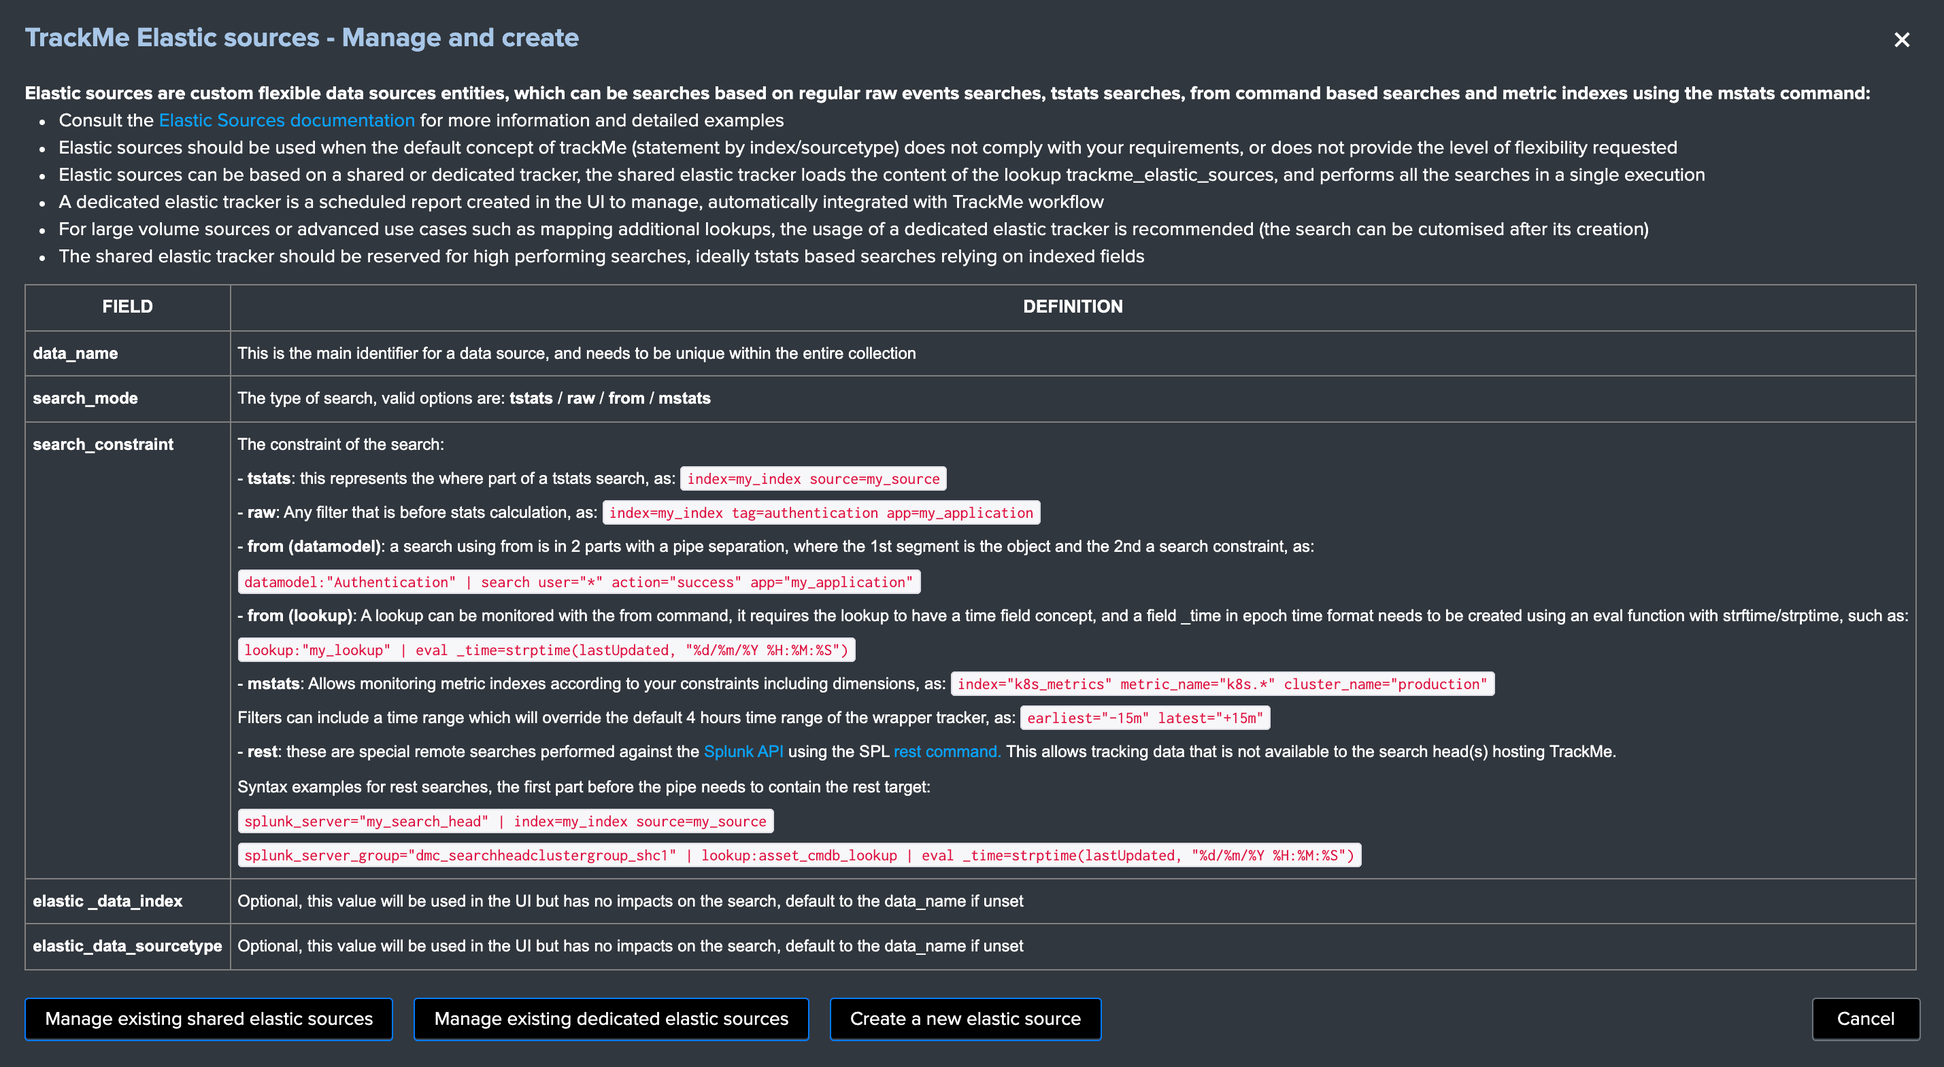
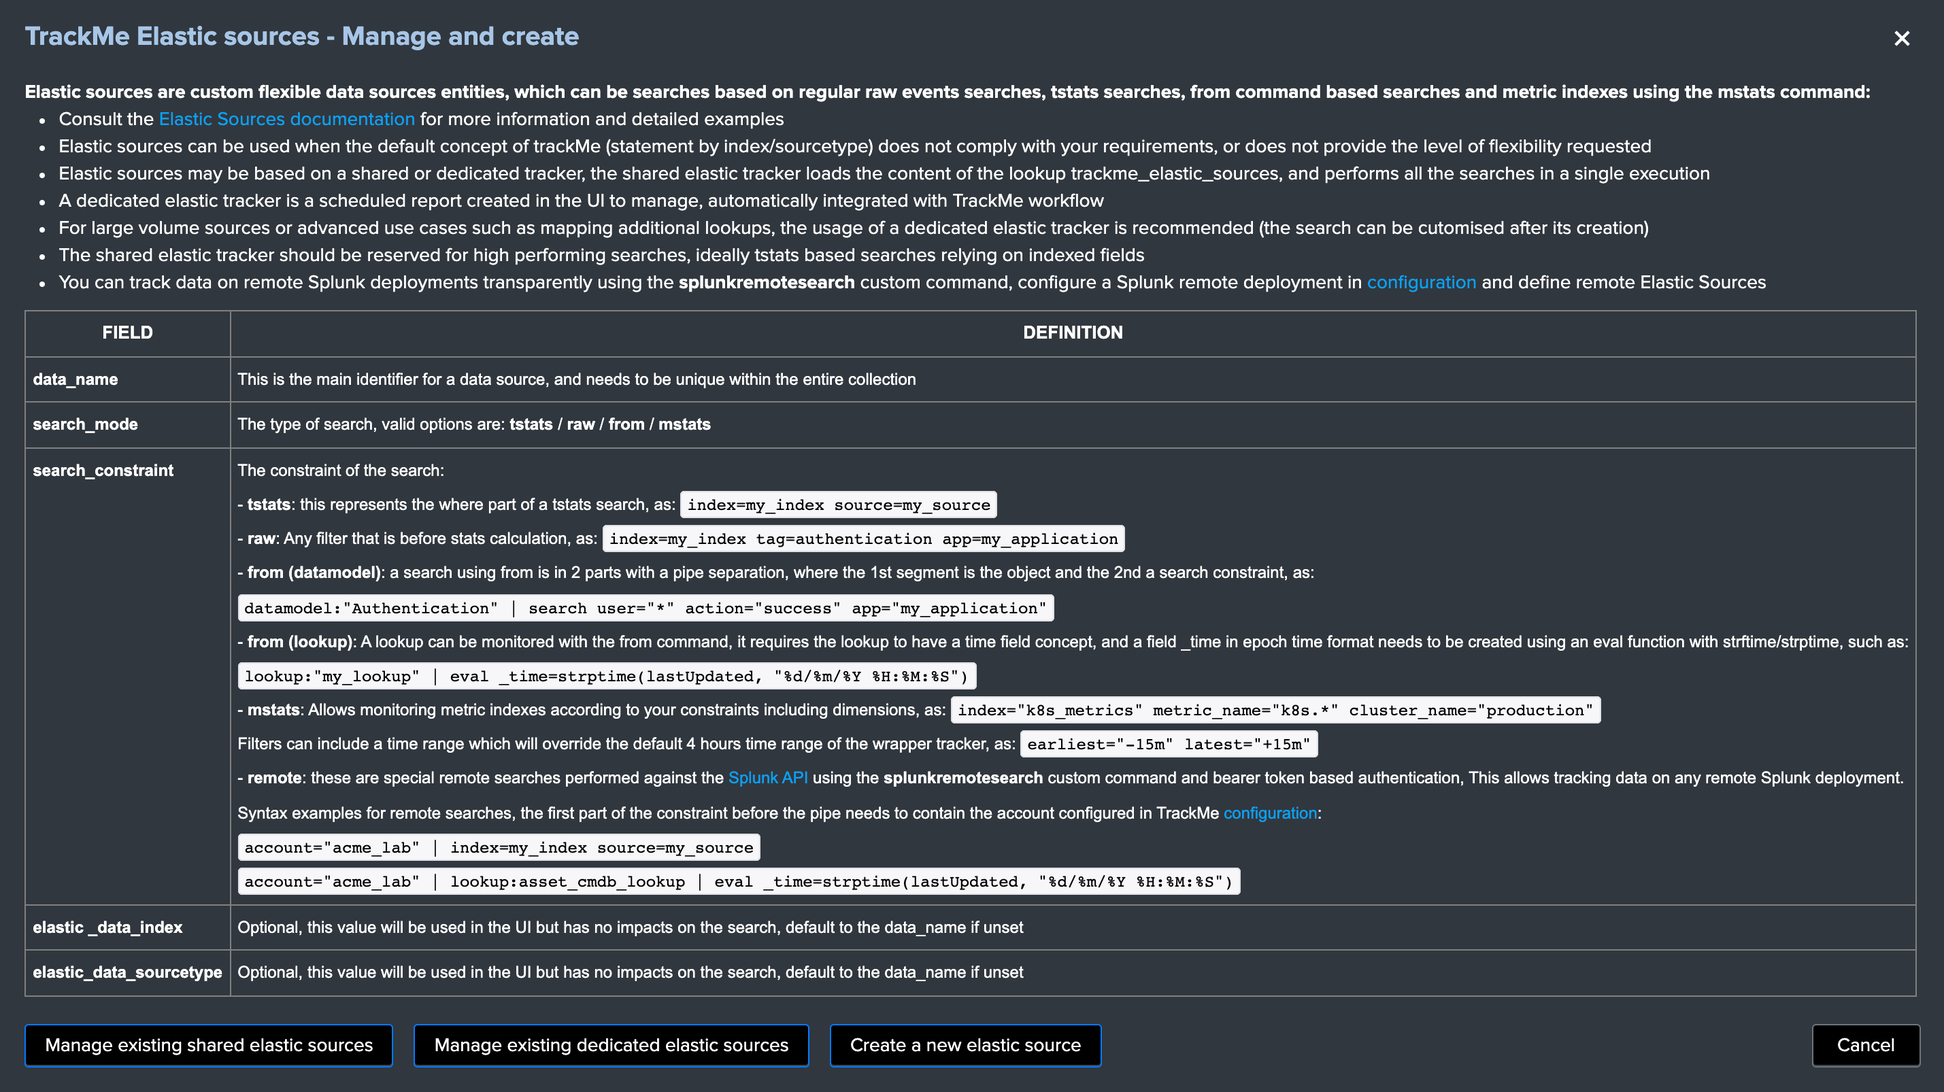
Docs in progress

Changed region(s): [[0.0, 0.3121, 0.9965, 0.9987], [0.0, 0.0312, 0.9654, 0.4369], [0.9342, 0.9051, 0.9965, 0.9987]]

diff --git a/docs/userguide.rst b/docs/userguide.rst
@@ -561,12 +561,12 @@ Introduction to Hybrid Trackers
 
 .. admonition:: What are hybrid trackers for?
 
-   - The purpose of Hybrid trackers is to to address two essential needs, **custom key special entities split**, and **remote Splunk deployment monitoring**
+   - The purpose of Hybrid trackers is to address two essential needs, **custom key special entities split**, and **remote Splunk deployment monitoring**
    - **custom key special entities** is to be used when you have special requirements in addition with the default index/sourcetype data source concept, then you can rely on any additional key field (indexed or search time extracted) and create hybrid trackers without affecting the general data sources behaviour
    - For instance, you could create an hybrid tracker to automatically create entities for your Cloud provider data using a **subscription_id** field, and get a single entity per index / sourcetype / Cloud tenant (represented by its subscription_id)
    - Another example, you could create an hybrid tracker to create entities based on a **company** fields which describes subsidiaries in your data sets, generating entities per index / sourcetype / company
    - Finally, **remote Splunk deployment monitoring** is a magic feature of TrackMe which allows to do all of these, index/sourcetype entities or with a custom key, but with any remote Splunk deployment configured as an account and using a bearer token for the authentication
-   - In short, you can transparently and easily monitor data from remote Splunk deployment, just as if these were local data sets, with all trackMe features and massive scalability and efficiently!
+   - In short, you can transparently and easily monitor data from remote Splunk deployments, just as if these were local data sets, with all trackMe features and massive scalability and efficiently!
 
 Hybrid trackers for local data sets with a custom key
 -----------------------------------------------------
@@ -806,7 +806,7 @@ Introduction to Elastic sources
    - The Elastic sources feature provides a builtin workflow to create virtual data sources based on any constraints and any Splunk language
    - This extends TrackMe builtin features to allow dealing with any use case that the default data source concept does not cover by design
    - Elastic Sources can be based on ``tstats``, ``raw``, ``from (datamodel and lookup)`` and ``mstats`` searches
-   - In addition, Elastic Sources can be executed over a ``rest`` remote query which allows tracking data that the search head(s) hosting TrackMe cannot access otherwise (such as a lookup that is only available to a Search Head Cluster while you run TrackMe on a monitoring utility search head)
+   - In addition, Elastic Sources can be executed over a remote Splunk deployment using the ``splunkremotesearch`` command which allows tracking data that the search head(s) hosting TrackMe cannot access otherwise (such as a lookup that is only available to a Search Head Cluster while you run TrackMe on a monitoring utility search head)
 
 As we have exposed the main notions of TrackMe data discovery and tracking in :ref:`Main navigation tabs`, there can be various use cases that these concepts do not address properly, considering some facts:
 
@@ -818,7 +818,11 @@ As we have exposed the main notions of TrackMe data discovery and tracking in :r
 
 .. hint:: 
 
-   The Elastic source feature allows you to fulfil any type of requirements from the data identification and search perspective, and transparenly integrate these virtual entities in the normal TrackMe workflow with the exact same features.
+   - The Elastic source feature allows you to fulfil any type of requirements from the data identification and search perspective, and transparenly integrate these virtual entities in the normal TrackMe workflow with the exact same features.
+   - Since TrackMe 2.0, you can as well create **hybrid trackers** for the nearly same purposes with advantages over Elastic Sources (hybrid trackers can only address tstats and raw searches)
+   - Unlike Elastic Sources, Hybrid trackers allow you to perform the discovery of many entities based on a given logic but from a single operation and automatically, saving computes and operations
+   - If you have many entities to be handled, such as a logic based on a subscription_id for a Cloud provider, use hybrid trackers rather than Elastic Sources
+   - Consult :ref:`Hybrid trackers` for more information about hybrid trackers
 
 **The concept of "Elastic Sources" is proper to TrackMe, and is linked to the complete level of flexibility the feature provides you to address any kind of use cases you might need to deal with.**
 
@@ -853,6 +857,11 @@ The following screen appears:
 
 Elastic source example 1: source Metadata
 -----------------------------------------
+
+.. hint::
+
+   - Since TrackMe 2.0, this use case example is much better covered by hybrid trackers, and left for the purposes of the documentation
+   - Consult :ref:`Hybrid trackers` for more information about hybrid trackers
 
 **Let's take our first example, assuming we are indexing the following events:**
 
@@ -895,6 +904,11 @@ Elastic Sources is the TrackMe answer which allows you to extend the default fea
 Elastic source example 2: custom indexed fields
 -----------------------------------------------
 
+.. hint::
+
+   - Since TrackMe 2.0, this use case example is much better covered by hybrid trackers, and left for the purposes of the documentation
+   - Consult :ref:`Hybrid trackers` for more information about hybrid trackers
+
 **Let's extend a bit more the first example, and this time in addition with the region we have a company notion.**
 
 At indexing time, two custom indexed fields are created representing the "region" and the "company".
@@ -916,7 +930,7 @@ This example of excellence allows our virtual customer to work at scale with per
 
 *Note the usage of "::" rather than "=" which indicates to Splunk that we are explicitly looking at an indexed field rather a field potentially extracted at search time.*
 
-Indeed, it is clear enough that the default data source feature does not me with the answer I need for this use case:
+Indeed, the default data source feature does fill the requirements we need for this use case:
 
 .. image:: img/first_steps/img032.png
    :alt: img/first_steps/img032
@@ -942,13 +956,11 @@ Elastic source example 3: tracking lookups update and number of records
 
 It is a very common and powerful practice to generate and maintain lookups in Splunk for numbers of purposes, which can be file based lookups (CSV files) or KVstore based lookups.
 
-Starting with TrackMe 1.2.28, it is possible to define an Elastic Source and monitor if the lookup is being updated as expected.
-
 A common caveheat with lookups is that their update is driven by Splunk searches, there are plenty of reasons why a lookup could stop being populated and maintained, such as scheduling issues, permissions, related knowledge objects updates, lack or changes in the data, and many more.
 
 The purpose of this example is to provide a builtin and effiscient way of tracking Splunk lookup updates at scale in the easy way, and get alerted if an update issue is detected in the lookup according to the policies defined in TrackMe.
 
-*Let's consider the simplistic following example, the lookup acme_assets_cmdb contains our ACME assets and is updated every day, we record in the field "lookupLastUpdated" the date and time of the execution of the Lookup gen report in Splunk. (in epoch time format)*
+*Let's consider the simplistic following example, the lookup acme_assets_cmdb contains our ACME assets and is updated every day, we record in the field "lastupdate" the date and time of the execution of the Lookup gen report in Splunk. (in epoch time format)*
 
 .. image:: img/first_steps/img-lookup-tracking1.png
    :alt: img/first_steps/img-lookup-tracking1
@@ -976,80 +988,70 @@ A Lookup based Elastic Source acts transparently just as any other data source, 
 - delays KPIs: how often shall the lookup be updated, which allows you to monitor that your update process (reports, etc) remains valid and operational
 - volume outliers: to automatically be alerted when the number of records is abnormal, and easily detects critical failures in your lookup update process
 
-Elastic source example 4: rest searches
----------------------------------------
+Elastic source example 4: remote searches
+-----------------------------------------
+
+.. hint::
+
+   - Since TrackMe 2.0, hybrid remote trackers can handle remote Splunk deployments monitoring at scale, with much more advantages over Elastic Sources in term of compute and operational costs
+   - This depends on the use cases, hybrid trackers handle tstats and raw searches only (not datamodels or lookups)
+   - Consult :ref:`Hybrid trackers` for more information about hybrid trackers
+
 
 **In some cases, the Splunk instance that hosts the TrackMe application may not not be able to access to a data you wish to monitor.**
-
-**A very simple to understand use case would be:**
 
 - You have a Splunk Search Head Cluster, hosting for example your premium application for ITSI or Enterprise Security
 - In addition, you either use your monitoring console host or a dedicated standalone search head for your Splunk environment monitoring, which is where TrackMe is deployed
 - A lookup exists in the SHC which is the object you need to monitor, this lookup is only available to the SHC members and TrackMe cannot access to its content transparently
 
-Using a ``rest`` command, you can hit a Splunk API search endpoint remotely, and use the builtin Elastic Source feature to monitor and track the lookup just as if it was available directly on the TrackMe search head.
+TrackMe provides a custom command named ``splunkremotesearch`` which performs searches to remote Splunk deployments using the Splunk API and an account you configure:
 
-*In short, on the SHC you can run:*
+**In the Splunk remote deployment account, create a new account, example:**
 
-::
+.. image:: img/hybrid_trackers/remote2.png
+   :alt: img/hybrid_trackers/remote2.png
+   :align: center
+   :width: 1200px
 
-   | inputlookup acme_assets_cmdb
+**Account creation nodes:**
 
-*On the TrackMe Splunk instance, we will use a search looking like:*
+- The account name is important as it will be part of the name of each entity to be created for the remote deployment, in the format: ``remote:|account=<name>|index:sourcetype``
+- The URl is https enforced, and should include the port number of the Splunk API, traditionally your URL would look like: ``https://mysplunk.mydomain.com:8089``
+- The URL can either be an IP address or ideally a FQDN, if you are running a Search Head Cluster, then the URL would ideally refer to the VIP or load balancer FQDN
+- The bearer token is to be configured on the remote Splunk Search Head(s), and should be linked to a Splunk user account with enough privileges to access the indexes you need
+- The application namespace is search and reporting by default, however you can choose a different application context if needed
 
-::
-
-   | rest splunk_server_group="dmc_searchheadclustergroup_shc1" /servicesNS/admin/search/search/jobs/export search="| from lookup:acme_assets_cmdb | eval _time=strftime(lookupLastUpdated, \"%s\") | eventstats max(_time) as indextime | eval _indextime=if(isnum(_indextime), _indextime, indextime) | fields - indextime | eval host=if(isnull(host), \"none\", host) | stats max(_indextime) as data_last_ingest, min(_time) as data_first_time_seen, max(_time) as data_last_time_seen, count as data_eventcount, dc(host) as dcount_host | eval data_name=\"rest:from:lookup:example\", data_index=\"pseudo_index\", data_sourcetype=\"lookup:acme_assets_cmdb\", data_last_ingestion_lag_seen=data_last_ingest-data_last_time_seen" output_mode="csv"
-
-*Notes and technical details:*
-
-- See https://docs.splunk.com/Documentation/Splunk/latest/RESTTUT/RESTsearches for more information about running searches over rest
-- See https://docs.splunk.com/Documentation/Splunk/latest/SearchReference/Rest for more information about the rest search command
-- ``rest`` based searches support all forms of searches supported by Elastic Sources: ``tstats``, ``raw``, ``from:datamodel``, ``from:lookup``, ``mstats`` 
-- Search Heads you wish to target need to be configured as distributed search peers in Splunk, same requirement as for the Splunk Monitoring Console host (MC, previously named DMC)
-- Most of the calculation part is executed on the target search head size, TrackMe will not attempt to retrieve the raw data first before performing the calculation for obvious performance gain purposes
-- You can target a search head explicity using the ``splunk_server`` argument, or you can target a group of search heads (such as your SHC) using the ``splunk_server_group`` argument
-- When targeting a group of search heads, the query is executed on every search that is matched by the splunk_server_group, therefore you should limit using a target group to very effiscient and low cost searches such as a from lookup for example
-- TrackMe in anycase will only consider the first result from the rest command (so only one search head answer during the rest execution, assuming search heads from the same group have the same data access), and will discard other search head replies
-- The search needs to be properly performing, and should complete in a acceptable time window (use timeout argument which defaults to 60 seconds)
-- Each result from the rest command, during the tracker execution or within the UI, passes through a Python based custom command to parse the CSV structure resulting from the rest command, to finally create the Splunk events during the search time execution
-- Except for ``| from lookup:`` rest searches, other types of searches automatically append the configured earliest and latest as arguments to the rest command (earliest_time, latest_time)
-- Earliest and Latest arguments are configurable for dedicated trackers only, shared trackers will use earliest:"-4h" and latest:"+4h" statically
-- Additional parameters to the rest command can be added within the first pipe of the search constraint during the Elastic Source creation (such as timeout, count etc)
-
-.. warning:: Currently the rest command generates a warning message "Unable to determine response format from HTTP Header", this message can be safety ignored as it does not impact the results in anyway, but cannot unfortunately be removed at the moment, until it is fixed by Splunk. 
-
-**Examples for each type of search:**
+**Examples for each type of search which you will enter within the Elastic Search UI:**
 
 *tstats over rest:*
 
 ::
 
-   splunk_server="my_search_head" | index=* sourcetype=pan:traffic
+   account="LAB" | index=* sourcetype=pan:traffic
 
 *raw search over rest:*
 
 ::
 
-   splunk_server="my_search_head" | index=* sourcetype=pan:traffic
+   account="LAB" | index=* sourcetype=pan:traffic
 
 *from datamodel over rest:*
 
 ::
 
-   splunk_server="my_search_head" | datamodel:"Authentication" action=*
+   account="LAB" | datamodel:"Authentication" action=*
 
 *from lookup over rest:*
 
 ::
 
-   splunk_server="my_search_head" | from lookup:acme_assets_cmdb | eval _time=strftime(lookupLastUpdated, "%s")
+   account="LAB" | from lookup:acme_assets_cmdb | eval _time=strftime(lastupdate, "%s")
 
 *mstats over rest:*
 
 ::
 
-   splunk_server="my_search_head" | index=* metric_name=docker*
+   account="LAB" | index=* metric_name=docker*
 
 As a conclusion, using the rest based searches features successfully completes the Elastic Sources level of features, such that every single use case can be handled in TrackMe, whenever the Splunk instance cam access or not to the data you need to track!
 
@@ -1195,13 +1197,13 @@ Litteraly, we are going to use the following SPL search to achieve our target:
 
 ::
 
-   | from lookup:acme_assets_cmdb | eval _time=strftime(lookupLastUpdated, "%s")
+   | from lookup:acme_assets_cmdb | eval _time=strftime(lastupdate, "%s")
 
-If our lookupLastUpdated would have been in a human readable format, we could have used the stptime function to convert it into an epoch time, for example:
+If our lastupdate would have been in a human readable format, we could have used the stptime function to convert it into an epoch time, for example:
 
 ::
 
-   | from lookup:acme_assets_cmdb | eval _time=strptime(lookupLastUpdated, "%d/%m/%Y %H:%M:%S")
+   | from lookup:acme_assets_cmdb | eval _time=strptime(lastupdate, "%d/%m/%Y %H:%M:%S")
 
 *Applied to TrackMe in the Elastic Sources UI creation:*
 
@@ -1231,34 +1233,42 @@ When TrackMe detects that the data source is a based on a lookup, the statistics
 Elastic source example 4: creation
 ----------------------------------
 
-As explained in the example 4 description, we can use a rest based search to monitor any data that is not available to the search head host TrackMe, let's consider the example a lookup hosted on a different search head.
+As explained in the example 4 description, we can run remote searches to monitor any data that is not available to the search head host TrackMe, let's consider the example a lookup hosted on a different search head.
 
 On the search head that owns the lookup, we can use the following query:
 
 ::
 
-   | from lookup:acme_assets_cmdb | eval _time=strftime(lookupLastUpdated, "%s")
+   | from lookup:acme_assets_cmdb | eval _time=strftime(lastupdate, "%s")
 
-Using a rest search, we will achieve the same job but this time remotely via a rest call to a search endpoint of the Splunk API using the rest command, the Elastic Source search syntax will be the following:
+Using the embedded ``splunkremotesearch`` and a remote Splunk deployment you have configured, we will achieve the same job but this time remotely, the Elastic Source search syntax will be the following:
 
 ::
 
-   splunk_server="my_search_head" | from lookup:acme_assets_cmdb | eval _time=strftime(lookupLastUpdated, "%s")
-
-The first pipe needs to contain the arguments passed to the rest command, the only mandatory argument is either ``splunk_server`` to target a unique Splunk instance, or ``splunk_server_group`` to target a group of search heads.
-As well, any additional agrument can be given to the rest command by ading these in the first pipe of the search constraint. (timeout, count, etc)
-
-.. tip:: 
-
-   - The Splunk server name needs to be between double quotes, ex: splunk_server="my_search_head"
-   - In this example of a lookup, the knowledge objects needs to be shared properly such that it is available to be accessed via the rest API
+   account="name_of_the_account" | from lookup:acme_assets_cmdb | eval _time=strftime(lastupdate, "%s")
 
 .. image:: img/first_steps/img-rest-elastic1.png
    :alt: img/first_steps/img-rest-elastic1
    :align: center
    :width: 1200px
 
-.. warning:: Currently the rest command generates a warning message "Unable to determine response format from HTTP Header", this message can be safety ignored as it does not impact the results in anyway, but cannot unfortunately be removed at the moment, until it is fixed by Splunk. 
+Underneath, what TrackMe does is a ``splunkremotesearch`` similar to: (with additional logics automatically generated by TrackMe)
+
+::
+
+   | splunkremotesearch account=LAB search="| from lookup:acme_cmdb_lookup | eval _time=strftime(lastupdate, \"%s\")" earliest="-4h" latest="+4h"
+
+.. image:: img/first_steps/img-rest-elastic1-bis.png
+   :alt: img/first_steps/img-rest-elastic1-bis
+   :align: center
+   :width: 1200px
+
+You can add the new Elastic Source, and immediately run the tracker: (shared or dedicated)
+
+.. image:: img/first_steps/img-rest-elastic1-created.png
+   :alt: img/first_steps/img-rest-elastic1-created
+   :align: center
+   :width: 1200px
 
 Once created, the new data source appears in the UI automatically, the following example shows the behaviour with a lookup that is updated every 30 minutes:
 
@@ -1298,7 +1308,27 @@ When the Elastic Source shared tracker runs:
 
 ``TrackMe - Elastic sources shared tracker``
 
-It calls a special saved search ``| savedsearch runSPL`` which expects in argument any number of SPL searches to be performed.
+TrackMe calls a custom command named ``trackmeelasticexecutor``, this custom command loads the SPL logic from the KVstore collection, and runs the searches sequentially using the Splunk Python SDK.
+
+Logs from the execution are available in:
+
+::
+
+   index=_internal sourcetype=trackme:custom_commands:trackmeelasticexecutor
+
+Especially, we can notice for each single Elastic Source that the search is logged as well as its execution run time:
+
+.. image:: img/first_steps/img-elastic-shared-executor1.png
+   :alt: img/first_steps/img-elastic-shared-executor1.png
+   :align: center
+   :width: 1200px
+
+At the end of the Elastic Shared execution process, we can a total run time metric including how many Elastic Sources were performed:
+
+.. image:: img/first_steps/img-elastic-shared-executor2.png
+   :alt: img/first_steps/img-elastic-shared-executor2.png
+   :align: center
+   :width: 1200px
 
 The tracker loads each record stored in the collection, and uses different evaluations to compose the final SPL search for each record.
 
